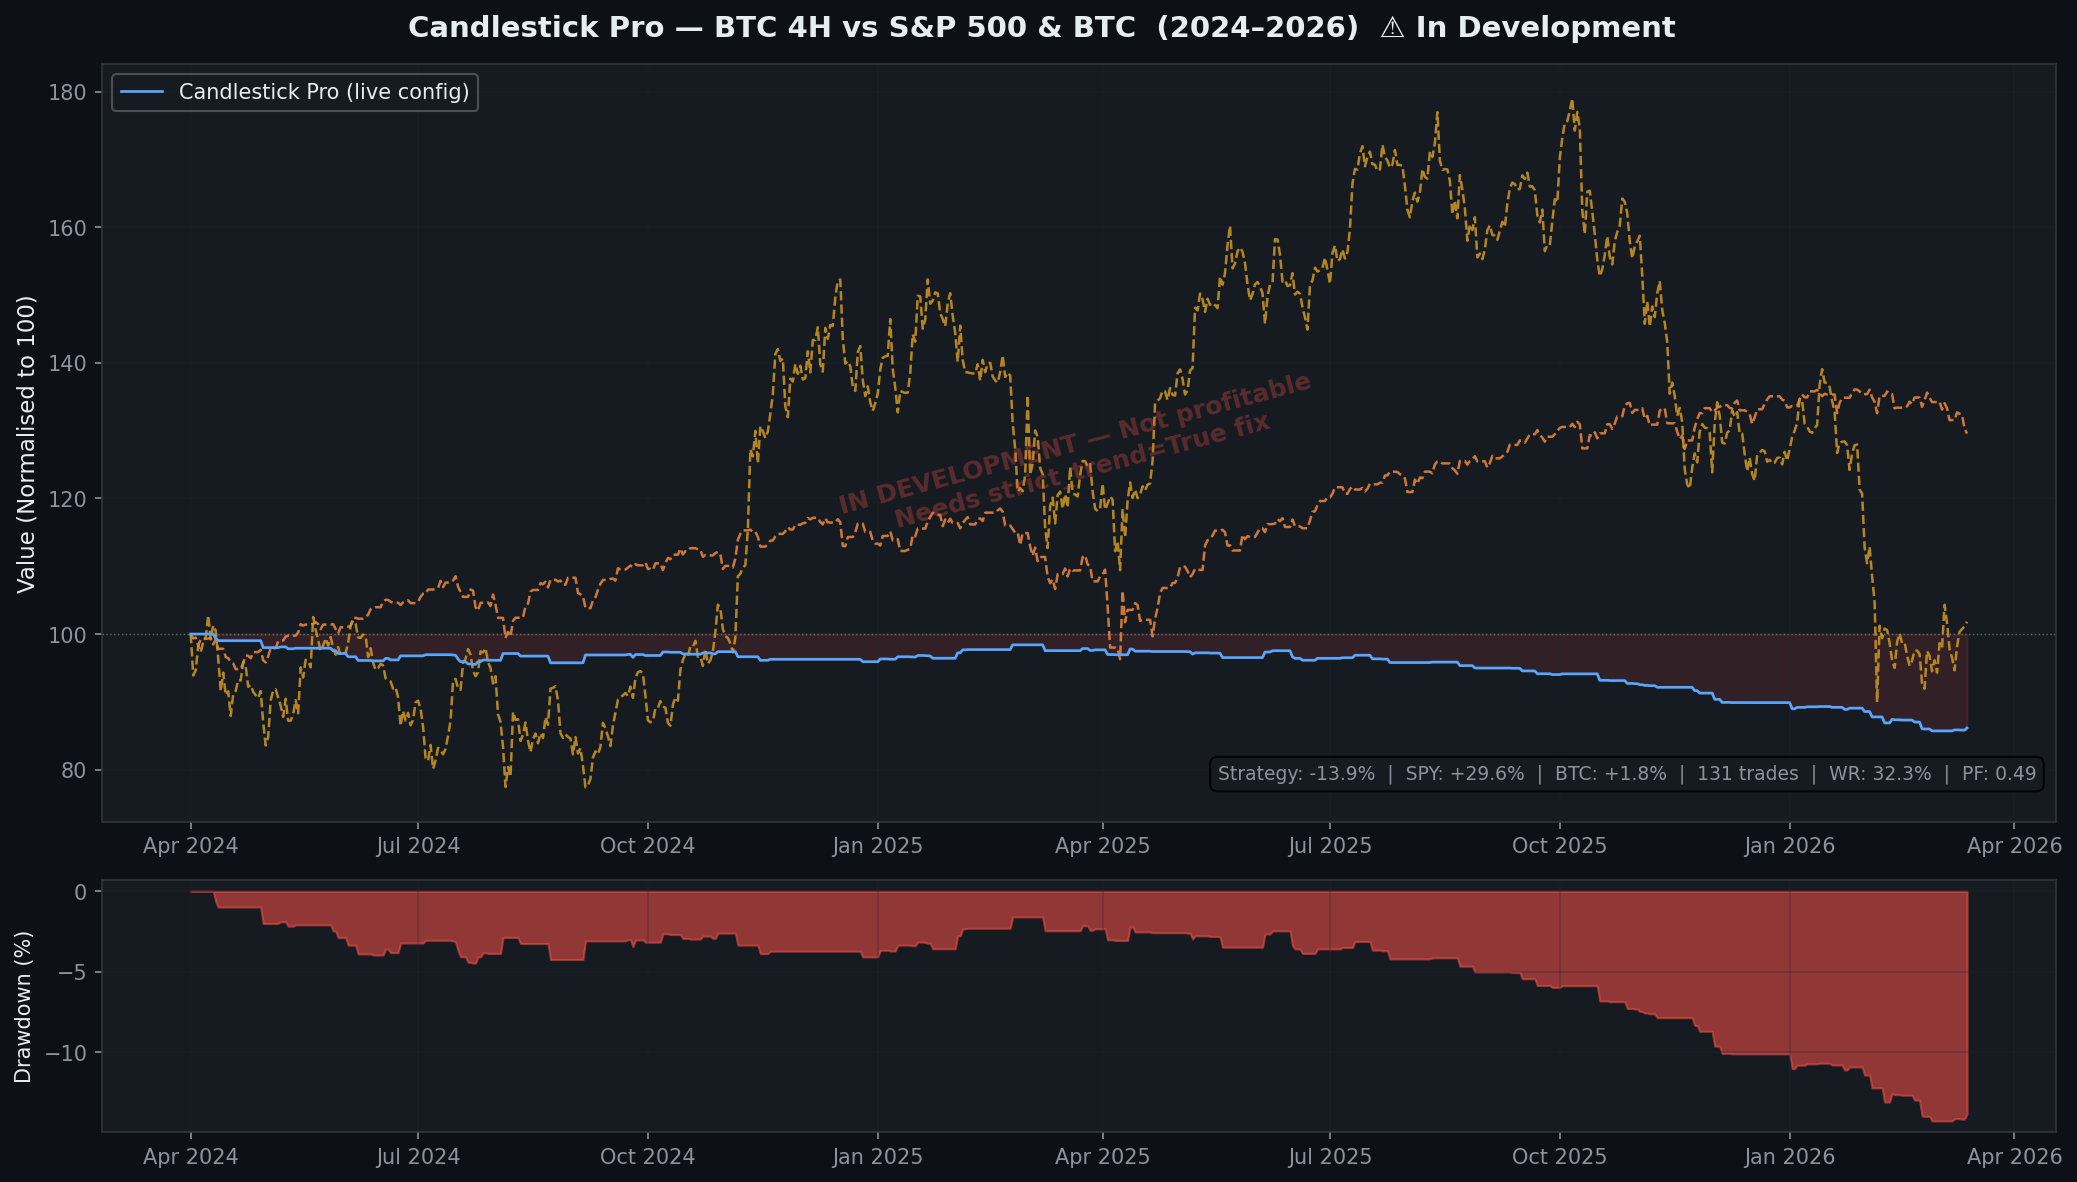
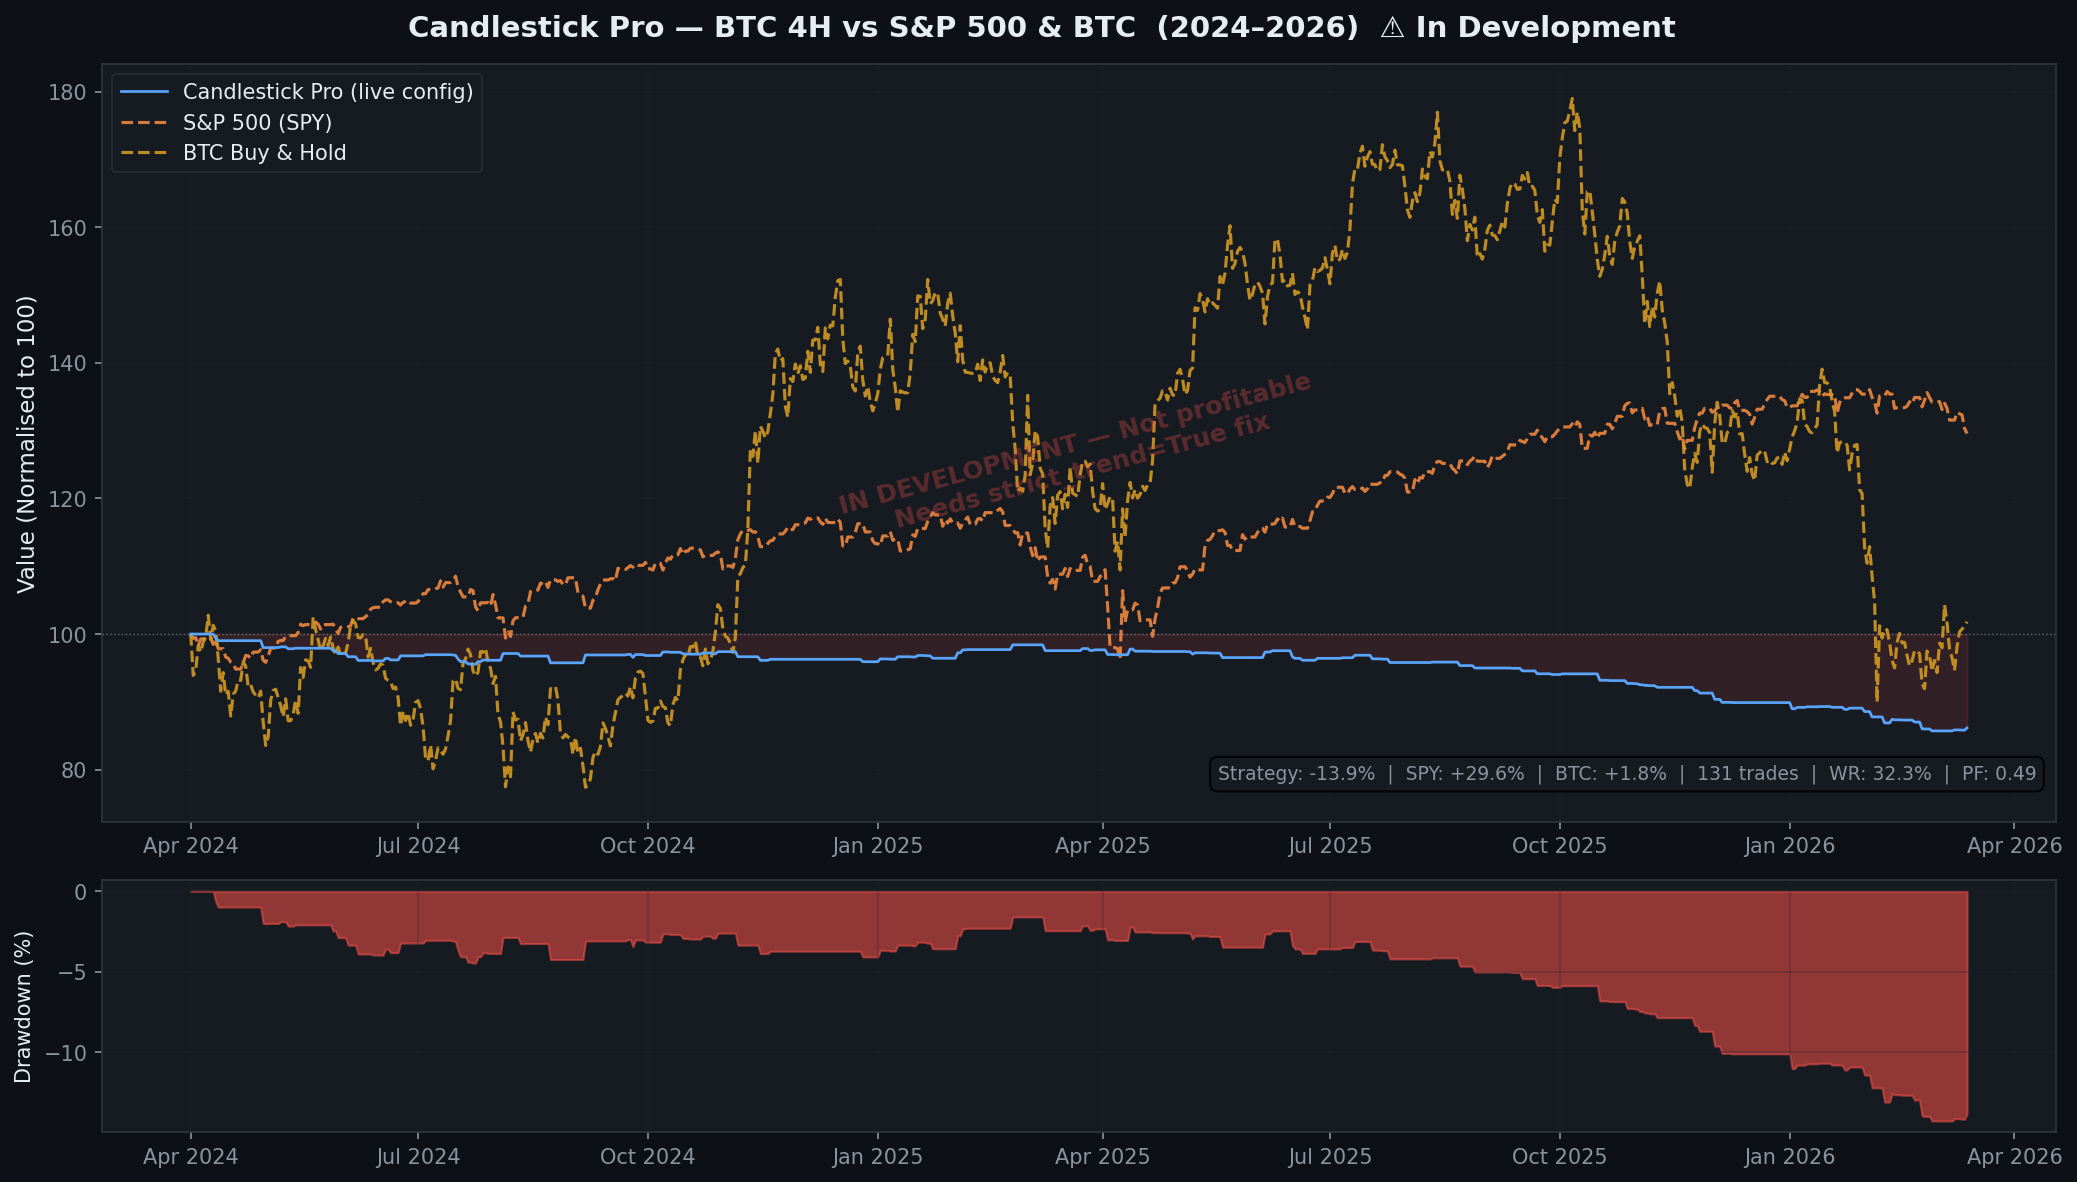
fix: add proper legends showing all lines on every equity chart
- Fix: legend() was called before benchmark lines were added — SPY/BTC
  never appeared in the legend
- Add finish_legend() helper called after all lines are plotted
- Increase SPY/BTC line thickness and opacity for better visibility
- Legend now shows: Strategy, S&P 500 (SPY), and BTC Buy & Hold where applicable

diff --git a/results/generate_charts_spy.py b/results/generate_charts_spy.py
@@ -94,6 +94,7 @@ def make_figure(title, ncols=1):
 
 
 def draw_equity(ax, dates, eq_norm, color=BLUE, label='Strategy', linewidth=1.3):
+    """Plot strategy line and fills. Call add_benchmark() then legend() afterwards."""
     ax.plot(dates, eq_norm, color=color, linewidth=linewidth, label=label, zorder=3)
     ax.axhline(100, color=MUTED, linewidth=0.7, linestyle=':', alpha=0.6)
     ax.fill_between(dates, 100, eq_norm,
@@ -101,9 +102,15 @@ def draw_equity(ax, dates, eq_norm, color=BLUE, label='Strategy', linewidth=1.3)
     ax.fill_between(dates, 100, eq_norm,
                     where=(np.array(eq_norm) < 100), alpha=0.12, color=RED)
     ax.set_ylabel('Value (Normalised to 100)', fontsize=11)
-    ax.legend(loc='upper left', framealpha=0.3, fontsize=10)
     ax.grid(True, alpha=0.3)
     ax.xaxis.set_major_formatter(mdates.DateFormatter('%b %Y'))
+
+
+def finish_legend(ax):
+    """Call after all lines added so every label appears in the legend."""
+    ax.legend(loc='upper left', framealpha=0.6, fontsize=10,
+              facecolor=PANEL, edgecolor=BORDER,
+              labelcolor=TEXT, handlelength=2.2)
 
 
 def draw_drawdown(ax, dates, eq_norm):
@@ -118,8 +125,8 @@ def draw_drawdown(ax, dates, eq_norm):
 
 
 def add_benchmark(ax, dates, values, color=ORANGE, label='S&P 500 (SPY)'):
-    ax.plot(dates, values, color=color, linewidth=1.2,
-            linestyle='--', alpha=0.85, label=label, zorder=2)
+    ax.plot(dates, values, color=color, linewidth=1.5,
+            linestyle='--', alpha=0.9, label=label, zorder=2)
 
 
 def trades_to_daily_equity(dates, pnls, start_capital, date_range_start, date_range_end):
@@ -156,6 +163,7 @@ spy_norm = normalize(spy_c.values)
 fig, ax1, ax2 = make_figure('Stock Momentum ETF vs S&P 500  (2023–2026, Monthly Rebalance)')
 draw_equity(ax1, common, eq_norm, label='Stock Momentum ETF')
 add_benchmark(ax1, common, spy_norm)
+finish_legend(ax1)
 draw_drawdown(ax2, common, eq_norm)
 
 strat_ret = scalar(eq_norm[-1]) - 100
@@ -194,6 +202,7 @@ fig, ax1, ax2 = make_figure('BDB DCA — BTC/USDT 30m vs S&P 500 & BTC  (2025)')
 draw_equity(ax1, eq_win.index, eq_norm, label='BDB DCA')
 add_benchmark(ax1, spy_a.index, spy_norm)
 add_benchmark(ax1, btc_a.index, btc_norm, color=GOLD, label='BTC Buy & Hold')
+finish_legend(ax1)
 draw_drawdown(ax2, eq_win.index, eq_norm)
 
 strat_ret = scalar(eq_norm[-1]) - 100
@@ -228,6 +237,7 @@ spy_norm = normalize(spy_a.values)
 fig, ax1, ax2 = make_figure('Insider Buy Signal — SEC Form 4 vs S&P 500  (2023–2024)')
 draw_equity(ax1, dates_i, eq_norm, label='Insider Strategy')
 add_benchmark(ax1, spy_a.index, spy_norm)
+finish_legend(ax1)
 draw_drawdown(ax2, dates_i, eq_norm)
 
 trades_info = bt.get('trades', {})
@@ -265,6 +275,7 @@ spy_norm = normalize(spy_a.loc[common].values)
 fig, ax1, ax2 = make_figure('FVG Breakout (Config C: Both Dirs, No Break-Even) vs S&P 500  (Feb 2025 – Jan 2026)')
 draw_equity(ax1, common, eq_norm, label='FVG Breakout (Config C)')
 add_benchmark(ax1, common, spy_norm)
+finish_legend(ax1)
 draw_drawdown(ax2, common, eq_norm)
 
 strat_ret = scalar(eq_norm[-1]) - 100
@@ -326,6 +337,7 @@ if rows:
     draw_equity(ax1, common, eq_norm, label='Candlestick Pro (live config)')
     add_benchmark(ax1, common, spy_norm)
     add_benchmark(ax1, common, btc_norm, color=GOLD, label='BTC Buy & Hold')
+    finish_legend(ax1)
     ax1.text(0.5, 0.48, 'IN DEVELOPMENT — Not profitable\nNeeds strict_trend=True fix',
              transform=ax1.transAxes, ha='center', va='center', fontsize=12,
              color=RED, alpha=0.3, fontweight='bold', rotation=15)

diff --git a/results/print_fvg.py b/results/print_fvg.py
@@ -1,0 +1,10 @@
+import json
+with open('results/fvg-breakout/extensive_summary_20260206_190238.json') as f:
+    d = json.load(f)
+for cfg, v in d['configs'].items():
+    print('Config %s: %s' % (cfg, v['label']))
+    print('  Trades: %d  Win Rate: %.1f%%  PnL: $%.2f (%.2f%%)' % (
+        v['total_trades'], v['win_rate'], v['total_pnl'], v['total_pnl_pct']))
+    print('  Sharpe: %.2f  Max DD: %.2f%%  PF: %.2f  Avg R: %.3f' % (
+        v['sharpe_ratio'], v['max_drawdown_pct']*100, v['profit_factor'], v['expectancy']))
+    print()

diff --git a/results/print_poly.py b/results/print_poly.py
@@ -1,0 +1,12 @@
+import json, glob, os
+files = sorted(glob.glob('strategies/polymarket/data/backtest_results/*.json'))
+for fp in files:
+    with open(fp) as f:
+        d = json.load(f)
+    print('=== %s ===' % os.path.basename(fp))
+    for k in ['total_trades','winning_trades','losing_trades','win_rate',
+              'total_return_pct','profit_factor','max_drawdown_pct','sharpe_ratio',
+              'total_pnl','initial_capital','final_capital']:
+        if k in d:
+            print('  %s: %s' % (k, d[k]))
+    print()
